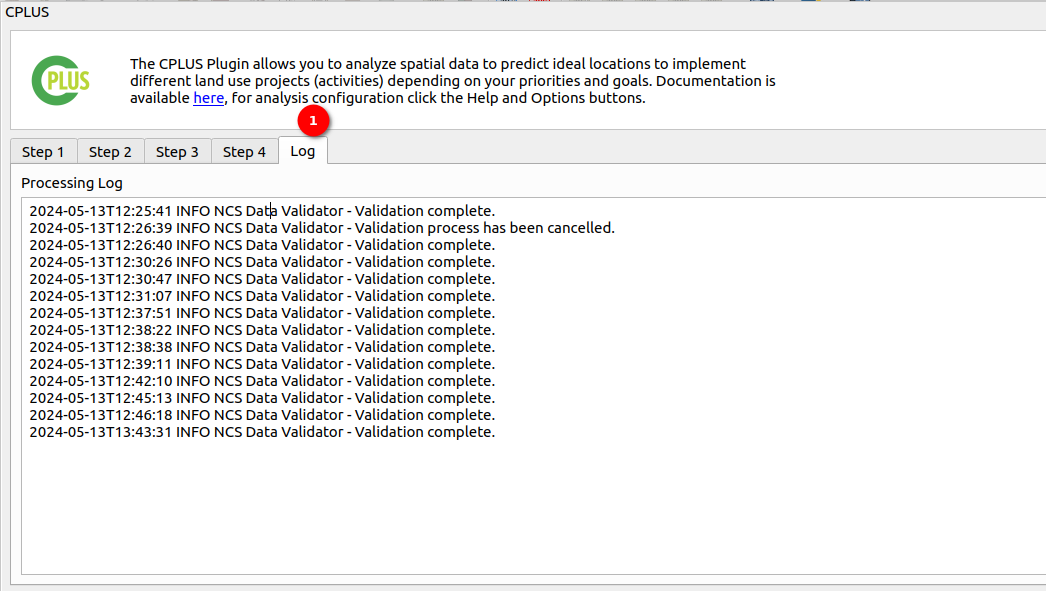
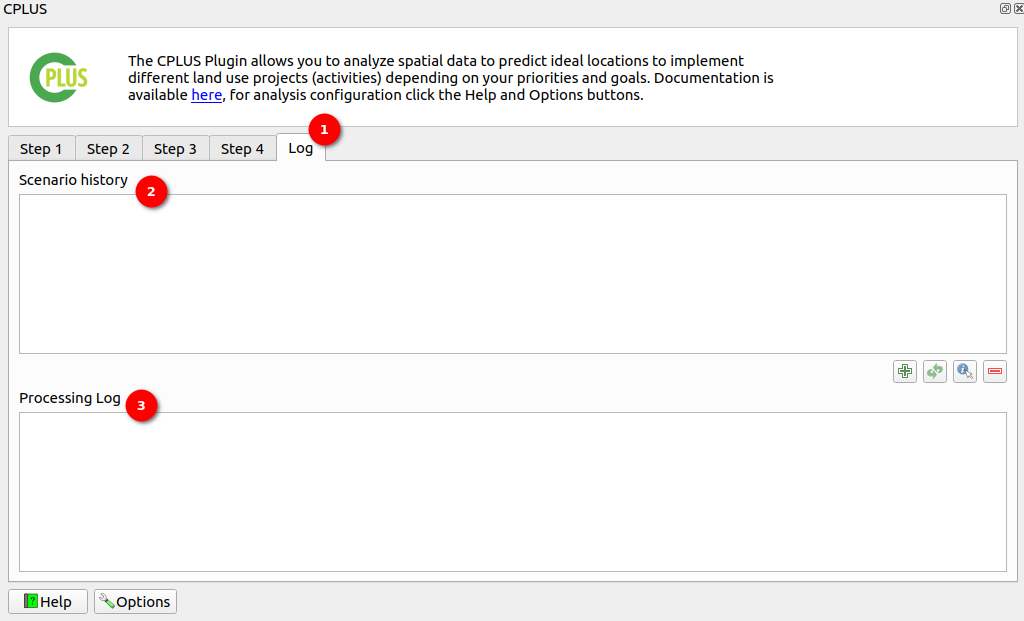
Update the logs tab manual

Changed region(s): [[0.0, 0.0, 1.0, 1.0], [0.875, 0.5787, 1.0, 0.6396]]

diff --git a/docs/user/manual/logs.md b/docs/user/manual/logs.md
@@ -1,18 +1,29 @@
 # Logs User Manual
 
-1. **Log:** Click on the `Log` option available to view the logs of what is happening during each step of the processing.
-
 ![Log](./img/logs-1.png)
 
-- The log module shows all the functions and processes that are done by the plugin throughout the analysis and this information is saved to the scenario file.
+1. **Log:** Click on the `Log` option available to view the logs of the processing scenario and the scenario history.
 
-- Each log entry provides clear and concise information to facilitate tracking and debugging of the validation process within the system.
+2. **Scenario History:** In this section, users can explore the history of previously executed scenarios. It serves as an archive of past processing scenarios, allowing users to review, analyse, and reference historical data. Users can retrieve valuable information about past activities, outcomes, and trends, facilitating informed decision-making and performance evaluation. The scenario history provides a comprehensive overview of past system activities, offering insights into long-term patterns and performance metrics.
 
-**INFO**
+    ![Scenario history](./img/logs-2.png)
 
-![Log Info](./img/logs-2.png)
+    Once the scenario is completed that scenario history will be shown in the scenario history section.
 
-**WARNING**
+    In the bottom right corner of the scenario history, you will find four buttons with the following functions:
 
-![Log Warning](./img/logs-3.png)
+        - **Plus Icon:** This button allows you to add the scenario history to this section. Clicking on it enables you to include additional scenarios for review and analysis within the scenario history.
 
+        - **Refresh Button:** The refresh button enables you to update the scenario history section with the latest information. Clicking on it will refresh the displayed data, ensuring you have access to the most recent scenario records.
+
+        - **Information Icon:** By clicking on the information icon, users can access useful information related to the scenarios. This feature provides additional insights, explanations, or tips to enhance the understanding and interpretation of the scenario history data.
+
+        - **Minus Icon:** The minus icon serves the purpose of removing the scenario from the scenario history section. Clicking on this icon allows users to delete specific scenarios from the history, streamlining the displayed records to focus on relevant information.
+
+3. **Processing Scenario Logs:** This section provides a detailed record of logs about the ongoing processing scenario. It offers real-time insights into the actions, events, and outcomes within the current scenario. Users can monitor the progress, identify any errors or issues, and troubleshoot accordingly. These logs are essential for tracking the execution flow and diagnosing any anomalies during the processing workflow.
+
+    ![Processing log](./img/logs-3.png)
+
+    - **Info:** The success info will be seen in the processing log section once the scenario runs successfully.
+
+        ![Info](./img/logs-4.png)
